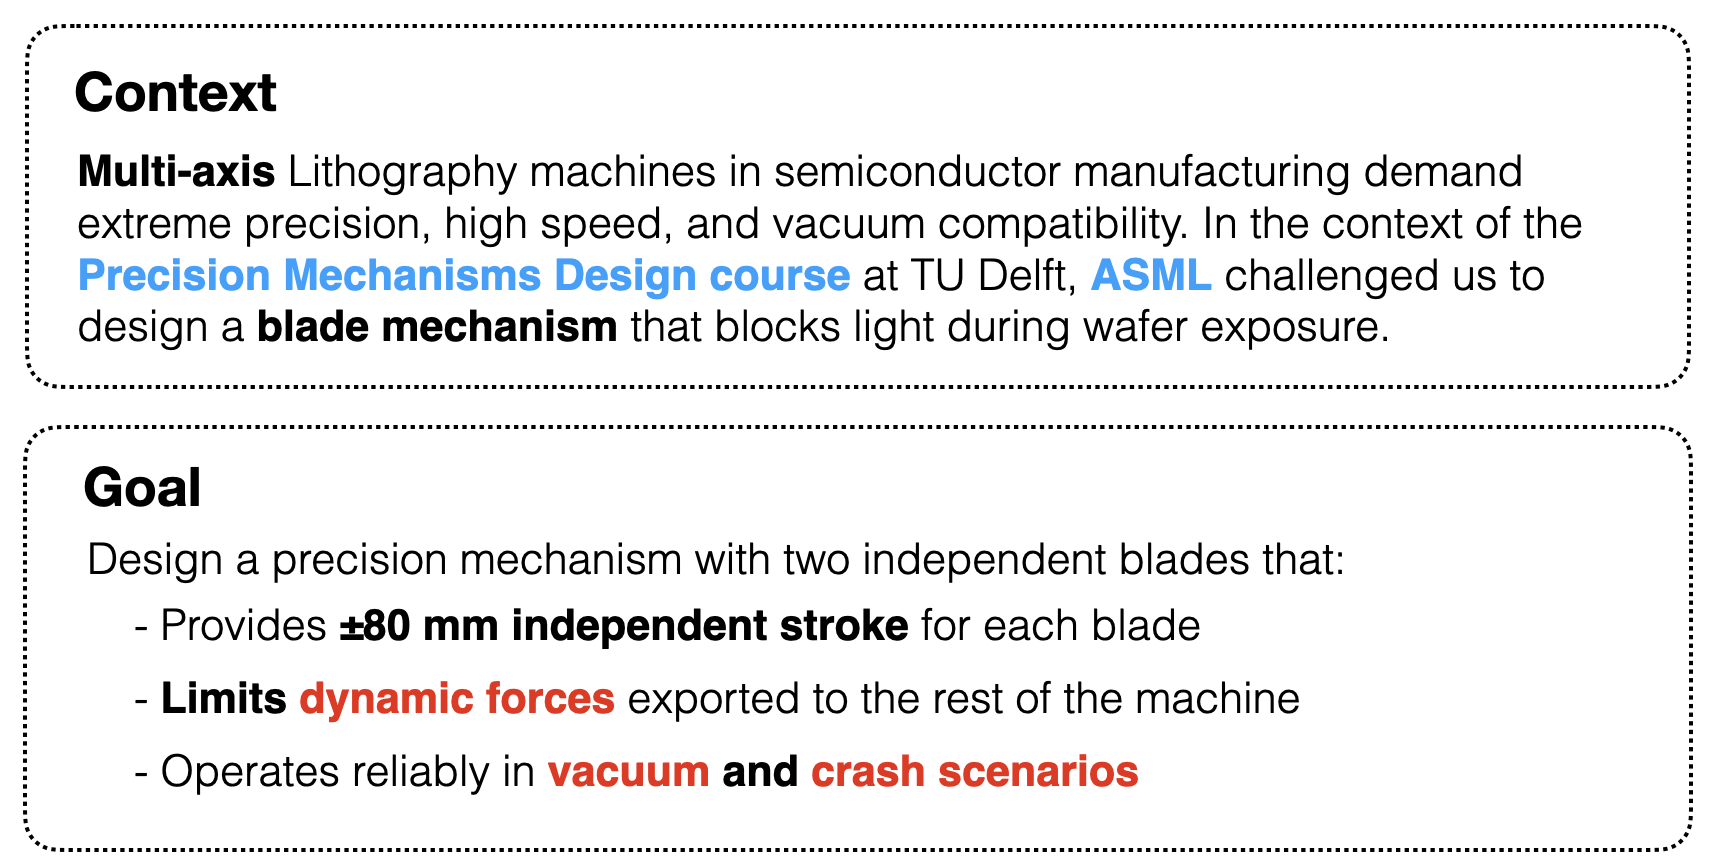
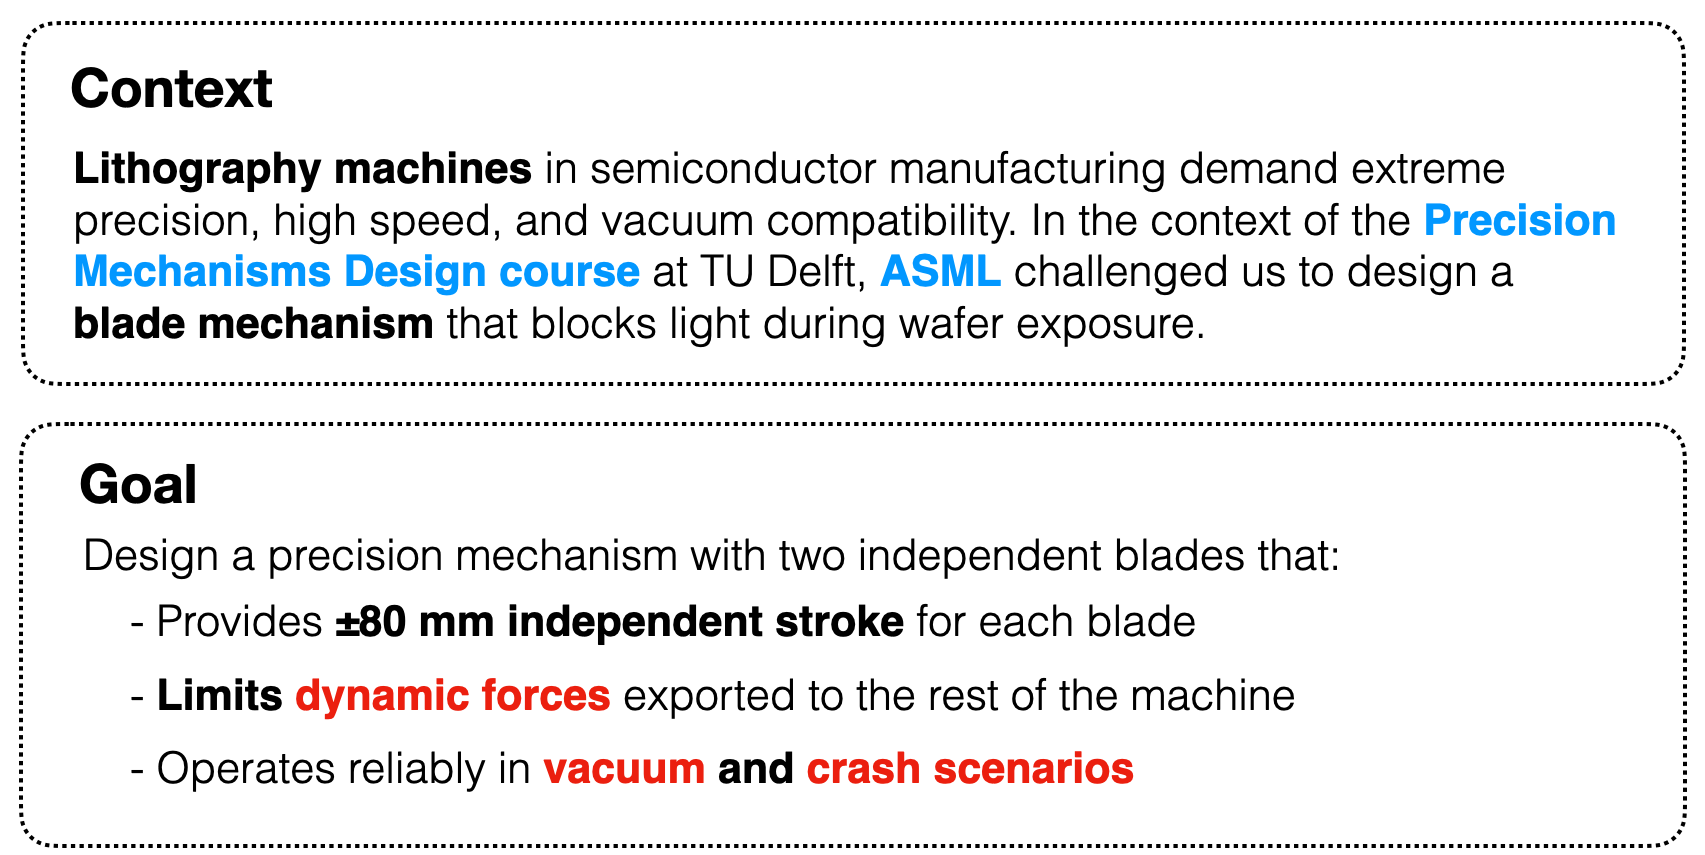
corrected hero card pmd

diff --git a/dist/projects/project_description_pmd.html b/dist/projects/project_description_pmd.html
@@ -516,7 +516,7 @@
 
 <h1 id="-tldr-summary">⚡ TL;DR (Summary)</h1>
 <p align="center">
-  <img src="/img/projects/project_assets_pmd/hero_card1.png" alt="Schematic visualisation of designated space for the design assignment" style="max-width:100%; height:auto;">
+  <img src="/img/projects/project_assets_pmd/hero_card1.png" alt="Schematic visualisation of designated space for the design assignment" style="width:100%; height:auto;">
 </p>
 <p align="center">
   <img src="/img/projects/project_assets_pmd/hero_card2.png" alt="Schematic visualisation of designated space for the design assignment" style="max-width:100%; height:auto;">

diff --git a/src/content/projects/project_description_pmd.md b/src/content/projects/project_description_pmd.md
@@ -14,7 +14,7 @@ order: 3
 # ⚡ TL;DR (Summary)
 
 <p align="center">
-  <img src="/img/projects/project_assets_pmd/hero_card1.png" alt="Schematic visualisation of designated space for the design assignment" style="max-width:100%; height:auto;">
+  <img src="/img/projects/project_assets_pmd/hero_card1.png" alt="Schematic visualisation of designated space for the design assignment" style="width:100%; height:auto;">
 </p>
 <p align="center">
   <img src="/img/projects/project_assets_pmd/hero_card2.png" alt="Schematic visualisation of designated space for the design assignment" style="max-width:100%; height:auto;">
